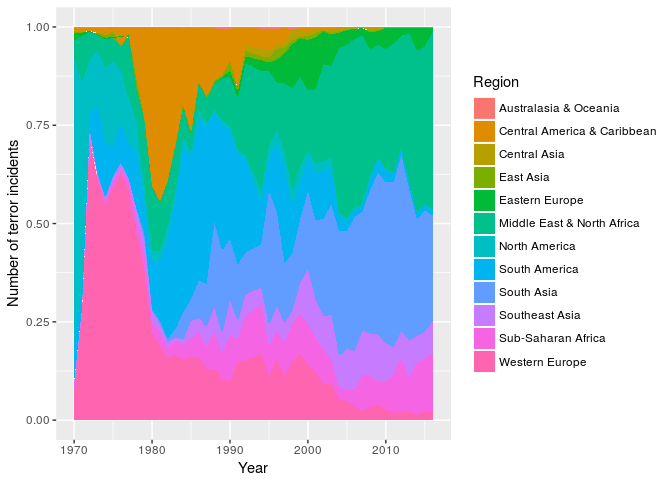
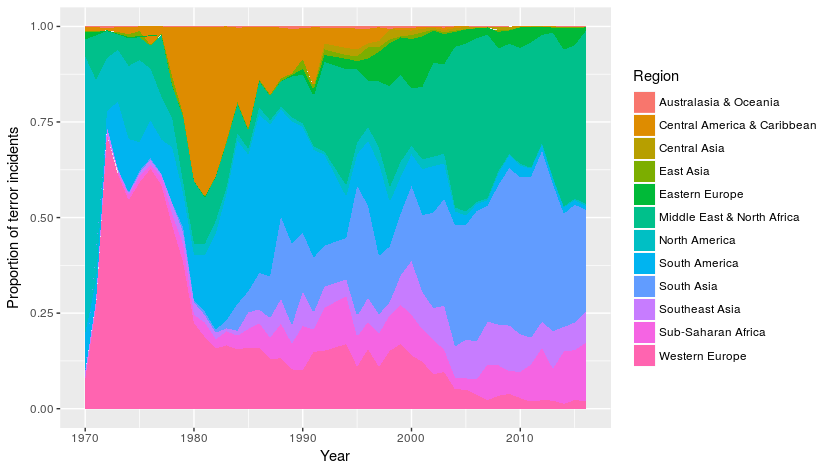
edits

diff --git a/_posts/2018-02-24-global-terror.md b/_posts/2018-02-24-global-terror.md
@@ -7,7 +7,7 @@ gh-repo: eskilan/globalTerror
 gh-badge: [star, fork, follow]
 ---
 
-The following is an exploratory data analysis of the Global Terrorism Database (<http://www.start.umd.edu/gtd/about/>) curated by START, the national consortium for the study of terrorism and responses to terrorism and the University of Maryland, College Park. This data contains over 170,000 terrorist attacks, and is considered "the most comprehensive unclassified database on terrorist events in the world." 
+The following is an exploratory data analysis of the Global Terrorism Database (<http://www.start.umd.edu/gtd/about/>) curated by START, the national consortium for the study of terrorism and responses to terrorism and the University of Maryland, College Park. This data contains over 170,000 terrorist attacks, and is considered "the most comprehensive unclassified database on terrorist events in the world." The entire code is available on my github repository (https://github.com/eskilan/globalTerror).
 
 ![alt text](/img/GTD/Iraq-terrorist_attack_on_buses.jpg  "By Unknown, US Army image - https://web.archive.org/web/http://www4.army.mil/armyimages/armyimage.php?photo=7243, Public Domain, https://commons.wikimedia.org/w/index.php?curid=637415" ){:height="40%" width="40%"}
 
@@ -36,7 +36,7 @@ We see that the number of attacks increased from 1970 to 1992. The year 1993 is 
 perYear <- gtd %>% group_by(iyear,region_txt) %>% summarise(nIncidents=n())
 ggplot(data=perYear) + 
   geom_area(mapping = aes(x=iyear,y=nIncidents,group=region_txt,fill=region_txt),position='fill') + 
-  labs(x='Year',y='Number of terror incidents',fill='Region')
+  labs(x='Year',y='Proportion of terror incidents',fill='Region')
 ```
 
 ![](/img/GTD/unnamed-chunk-4-1.png)
@@ -218,6 +218,9 @@ ggSuicide1 <- ggplot(data=suicide1) +
 ```
 
 Showing an interactive plot:
+``` r
+ggplotly(ggSuicide1,tooltip = c('x','colour','y'))
+```
 
 <iframe height="600" id="igraph" scrolling="no" seamless="seamless" src="/interactive/suicideAttacksPlotly.html" width="850" frameBorder="0"></iframe> 
 
